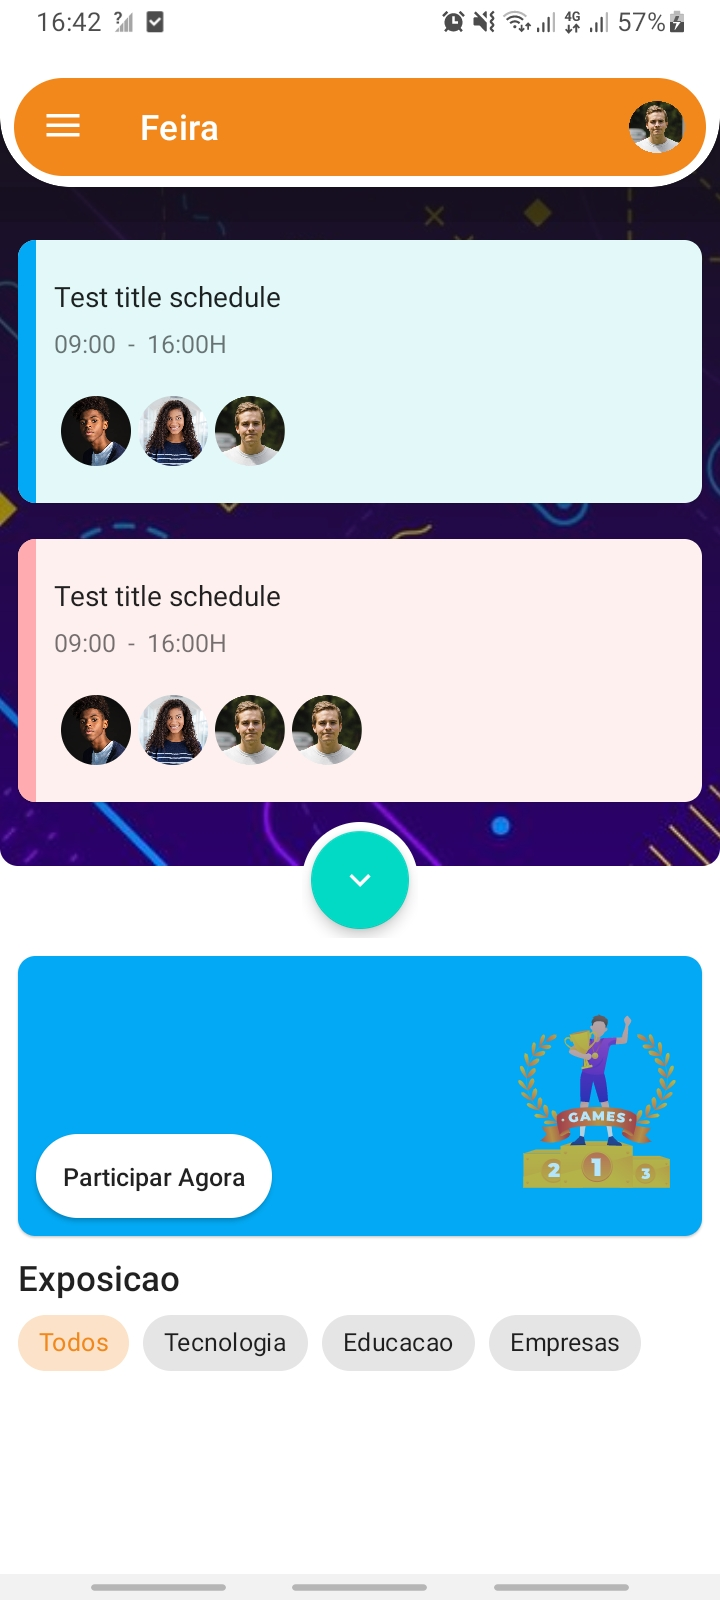
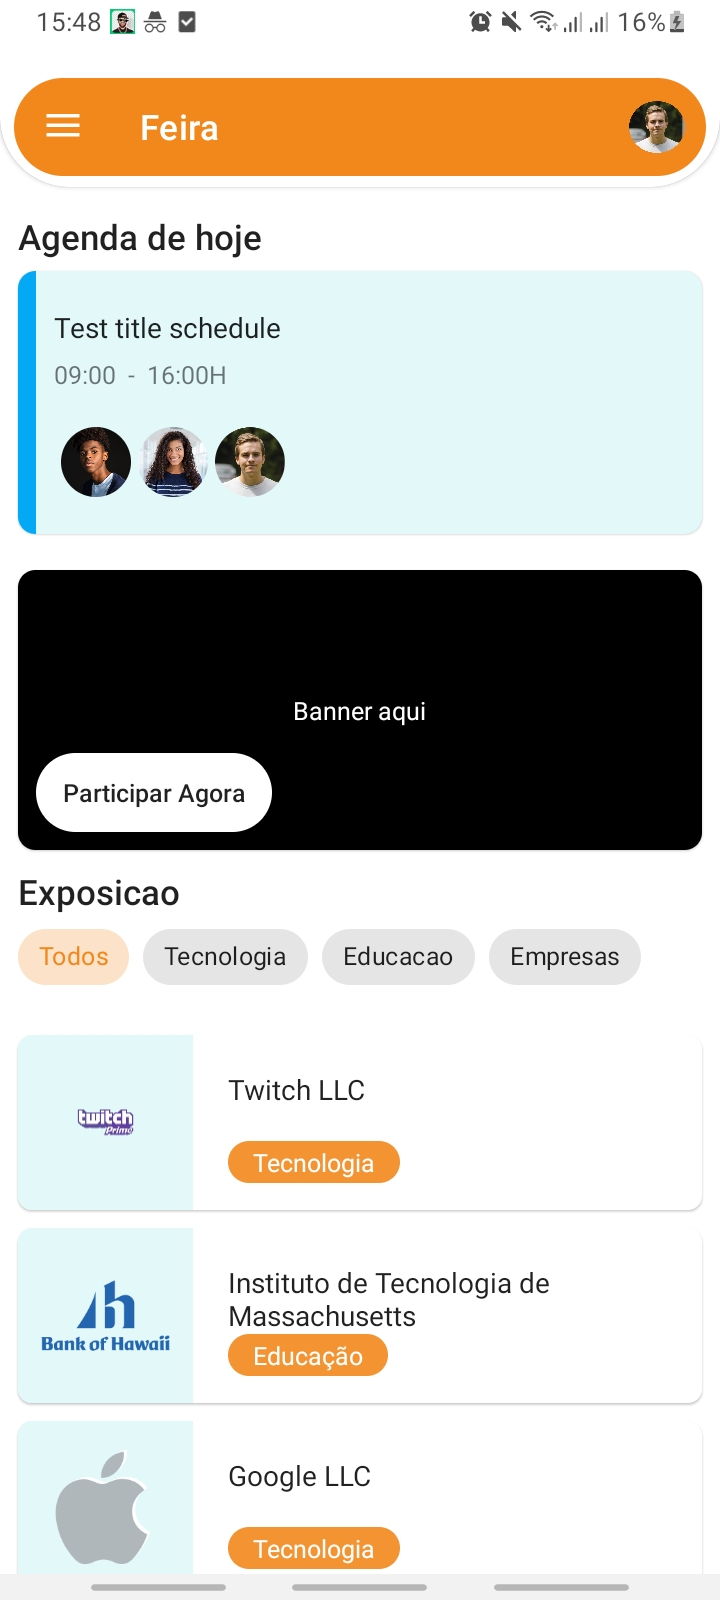
update screenshoot

diff --git a/app/src/main/java/com/app/educa/ui/adapter/ExhibitorAdapter.kt b/app/src/main/java/com/app/educa/ui/adapter/ExhibitorAdapter.kt
@@ -1,4 +1,44 @@
 package com.app.educa.ui.adapter
 
-class ExhibitorAdapter {
+import android.view.LayoutInflater
+import android.view.ViewGroup
+import androidx.recyclerview.widget.DiffUtil
+import androidx.recyclerview.widget.ListAdapter
+import androidx.recyclerview.widget.RecyclerView
+import com.app.educa.databinding.ItemExhibitorHorizontalBinding
+import com.app.educa.model.Exhibitor
+import com.bumptech.glide.Glide
+
+class ExhibitorAdapter : ListAdapter<Exhibitor, ExhibitorAdapter.ExhibitorViewHolder>(Companion) {
+
+    companion object : DiffUtil.ItemCallback<Exhibitor>() {
+        override fun areItemsTheSame(oldItem: Exhibitor, newItem: Exhibitor): Boolean {
+            return oldItem == newItem
+        }
+
+        override fun areContentsTheSame(oldItem: Exhibitor, newItem: Exhibitor): Boolean {
+            return oldItem == newItem
+        }
+    }
+
+    inner class ExhibitorViewHolder(val binding: ItemExhibitorHorizontalBinding) : RecyclerView.ViewHolder(binding.root)
+
+    override fun onCreateViewHolder(parent: ViewGroup, viewType: Int): ExhibitorViewHolder {
+        return ExhibitorViewHolder(ItemExhibitorHorizontalBinding.inflate(
+            LayoutInflater.from(parent.context),
+            parent,
+            false
+        ))
+    }
+
+    override fun onBindViewHolder(holder: ExhibitorViewHolder, position: Int) {
+       //holder.binding.root.setBackgroundColor(currentList[position])
+        holder.binding.tvExhibitorName.text = currentList[position].name
+        holder.binding.tvExhibitorCategory.text = currentList[position].category
+
+        Glide
+            .with(holder.binding.root)
+            .load(currentList[position].profile)
+            .into(holder.binding.imgExhibitor)
+    }
 }

diff --git a/app/src/main/java/com/app/educa/ui/view/GalleryFragment.kt b/app/src/main/java/com/app/educa/ui/view/GalleryFragment.kt
@@ -7,8 +7,13 @@ import android.view.ViewGroup
 import android.widget.TextView
 import androidx.fragment.app.Fragment
 import androidx.lifecycle.ViewModelProvider
+import androidx.recyclerview.widget.LinearLayoutManager
+import androidx.recyclerview.widget.StaggeredGridLayoutManager
 import com.app.educa.databinding.FragmentGalleryBinding
 import com.app.educa.databinding.FragmentHomeBinding
+import com.app.educa.ui.adapter.ExhibitorAdapter
+import com.app.educa.ui.adapter.GalleryAdapter
+import com.app.educa.ui.viewmodel.GalleryViewModel
 import com.app.educa.ui.viewmodel.HomeViewModel
 
 class GalleryFragment : Fragment() {
@@ -24,15 +29,19 @@ class GalleryFragment : Fragment() {
         container: ViewGroup?,
         savedInstanceState: Bundle?
     ): View {
-        val homeViewModel =
-            ViewModelProvider(this).get(HomeViewModel::class.java)
+        val galleryViewModel =
+            ViewModelProvider(this).get(GalleryViewModel::class.java)
 
         _binding = FragmentGalleryBinding.inflate(inflater, container, false)
         val root: View = binding.root
 
-        //val textView: TextView = binding.textHome
-        homeViewModel.text.observe(viewLifecycleOwner) {
-           // textView.text = it
+        galleryViewModel.images.observe(viewLifecycleOwner) {
+            val adapter = GalleryAdapter()
+            adapter.submitList(it)
+            binding.rvGallery.apply {
+                this.adapter = adapter
+                layoutManager = StaggeredGridLayoutManager(2, LinearLayoutManager.VERTICAL)
+            }
         }
         return root
     }

diff --git a/app/src/main/java/com/app/educa/ui/adapter/GalleryAdapter.kt b/app/src/main/java/com/app/educa/ui/adapter/GalleryAdapter.kt
@@ -1,0 +1,40 @@
+package com.app.educa.ui.adapter
+
+import android.view.LayoutInflater
+import android.view.ViewGroup
+import androidx.recyclerview.widget.DiffUtil
+import androidx.recyclerview.widget.ListAdapter
+import androidx.recyclerview.widget.RecyclerView
+import com.app.educa.databinding.ItemGalleryBinding
+import com.app.educa.model.Exhibitor
+import com.bumptech.glide.Glide
+
+class GalleryAdapter : ListAdapter<String, GalleryAdapter.GalleryViewHolder>(Companion) {
+
+    companion object : DiffUtil.ItemCallback<String>() {
+        override fun areItemsTheSame(oldItem: String, newItem: String): Boolean {
+            return oldItem == newItem
+        }
+
+        override fun areContentsTheSame(oldItem: String, newItem: String): Boolean {
+            return oldItem == newItem
+        }
+    }
+
+    inner class GalleryViewHolder(val binding: ItemGalleryBinding) : RecyclerView.ViewHolder(binding.root)
+
+    override fun onCreateViewHolder(parent: ViewGroup, viewType: Int): GalleryViewHolder {
+        return GalleryViewHolder(ItemGalleryBinding.inflate(
+            LayoutInflater.from(parent.context),
+            parent,
+            false
+        ))
+    }
+
+    override fun onBindViewHolder(holder: GalleryViewHolder, position: Int) {
+        Glide
+            .with(holder.binding.root)
+            .load(currentList[position])
+            .into(holder.binding.imgGallery)
+    }
+}

diff --git a/app/src/main/java/com/app/educa/ui/viewmodel/GalleryViewModel.kt b/app/src/main/java/com/app/educa/ui/viewmodel/GalleryViewModel.kt
@@ -1,0 +1,24 @@
+package com.app.educa.ui.viewmodel
+
+import androidx.lifecycle.LiveData
+import androidx.lifecycle.MutableLiveData
+import androidx.lifecycle.ViewModel
+
+class GalleryViewModel : ViewModel() {
+
+    private val _images = MutableLiveData<List<String>>().apply {
+        value = listOf(
+            "https://www.nvidia.com/content/dam/en-zz/Solutions/geforce/geforce-rtx-turing/store/geforce-gtx-16-series-laptops-462-d.jpg",
+            "https://atlantablackstar.com/wp-content/uploads/2015/07/college-students-studying2_0.jpg",
+            "https://www.ebony.com/wp-content/uploads/2016/11/Black-Students-Caro-800x500.jpg",
+            "https://atlantablackstar.com/wp-content/uploads/2015/07/college-students-studying2_0.jpg",
+            "https://www.nvidia.com/content/dam/en-zz/Solutions/geforce/geforce-rtx-turing/store/geforce-gtx-16-series-laptops-462-d.jpg",
+            "https://atlantablackstar.com/wp-content/uploads/2015/07/college-students-studying2_0.jpg",
+            "https://www.ebony.com/wp-content/uploads/2016/11/Black-Students-Caro-800x500.jpg",
+            "https://atlantablackstar.com/wp-content/uploads/2015/07/college-students-studying2_0.jpg",
+        )
+    }
+
+    val images: LiveData<List<String>> = _images
+
+}

diff --git a/app/src/main/java/com/app/educa/ui/view/ConferFragment.kt b/app/src/main/java/com/app/educa/ui/view/ConferFragment.kt
@@ -1,16 +1,14 @@
 package com.app.educa.ui.view
 
-import android.graphics.Color
 import android.os.Bundle
 import android.view.LayoutInflater
 import android.view.View
 import android.view.ViewGroup
-import android.widget.Toast
 import androidx.fragment.app.Fragment
 import androidx.lifecycle.ViewModelProvider
 import androidx.recyclerview.widget.LinearLayoutManager
 import com.app.educa.databinding.*
-import com.app.educa.ui.adapter.MyAdapter
+import com.app.educa.ui.adapter.ExhibitorAdapter
 import com.app.educa.ui.viewmodel.ConferViewModel
 
 class ConferFragment : Fragment() {
@@ -32,12 +30,9 @@ class ConferFragment : Fragment() {
         _binding = FragmentConferBinding.inflate(inflater, container, false)
         val root: View = binding.root
 
-       // val textView: TextView = binding.textGallery
-//        conferViewModel.text.observe(viewLifecycleOwner) {
-//        }
 
         conferViewModel.exhibitor.observe(viewLifecycleOwner) {
-            val adapter = MyAdapter()
+            val adapter = ExhibitorAdapter()
             adapter.submitList(it)
             binding.rvExhibitor.apply {
                 this.adapter = adapter
